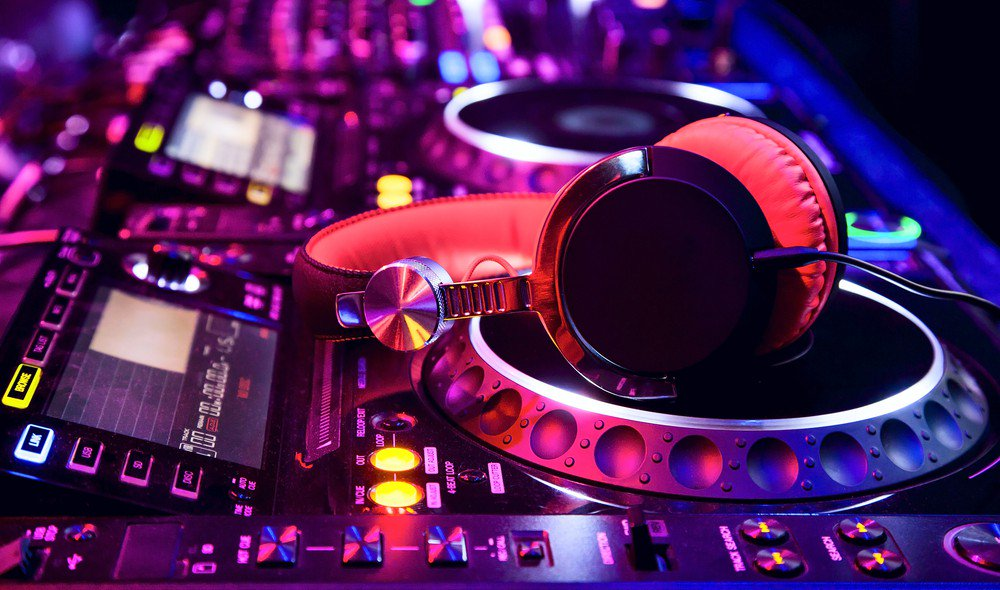
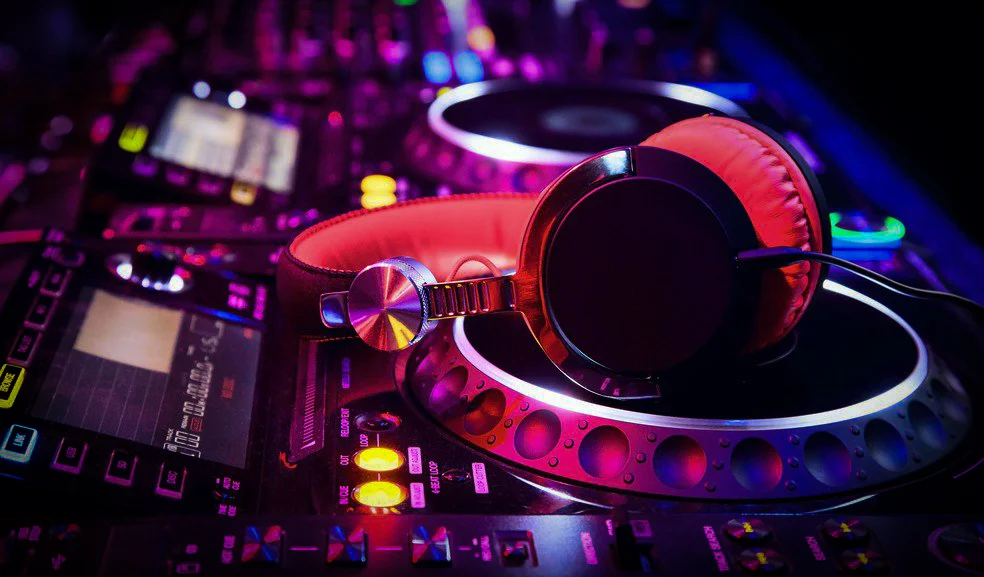
Add dj2 Mask

diff --git a/frontend/index.html b/frontend/index.html
@@ -67,16 +67,9 @@
     <header class="masthead text-center text-white d-flex">
       <div class="container my-auto">
         <div class="row">
-          <div class="col-lg-10 mx-auto">
-            <h1 class="text-uppercase">
-              <strong>建國中學70TH畢業典禮</strong>
-            </h1>
-            <!-- <hr> -->
-          </div>
-          <div class="col-lg-8 mx-auto">
-            <p class="text-faded mb-5"></p>
-             <!--<a class="js-scroll-trigger" href="#news"><i class="fas fa-arrow-alt-circle-down fa-5x"></i></a> -->
-             <a class="btn btn-primary btn-xl js-scroll-trigger" href="#about">Find Out More</a>             
+          <div class="col-lg-2"></div>
+          <div class="col-lg-8 col-md-12">
+            <img src="img/logo_transparent.png" style="width:90%">
           </div>
         </div>
       </div>

diff --git a/frontend/css/creative.css b/frontend/css/creative.css
@@ -167,13 +167,33 @@ img::-moz-selection {
 }
 
 header.masthead {
+  position: relative;
   padding-top: 10rem;
   padding-bottom: calc(10rem - 56px);
-  background: url("../img/dj2.jpg");
+  background: #000;
+  z-index: -1;
   background-position: center center;
   -webkit-background-size: cover;
   -moz-background-size: cover;
   -o-background-size: cover;
+  background-size: cover;
+}
+
+header.masthead::after {
+  content: '';
+  position: absolute;
+  top: 0;
+  width: 100%;
+  height: 100%;
+  z-index: -1;
+  opacity: 0.7;
+  background-image: url('../img/dj2.jpg');
+  background-repeat: no-repeat;
+  background-position: center center;
+  -ms-background-size: cover;
+  -o-background-size: cover;
+  -moz-background-size: cover;
+  -webkit-background-size: cover;
   background-size: cover;
 }
 
